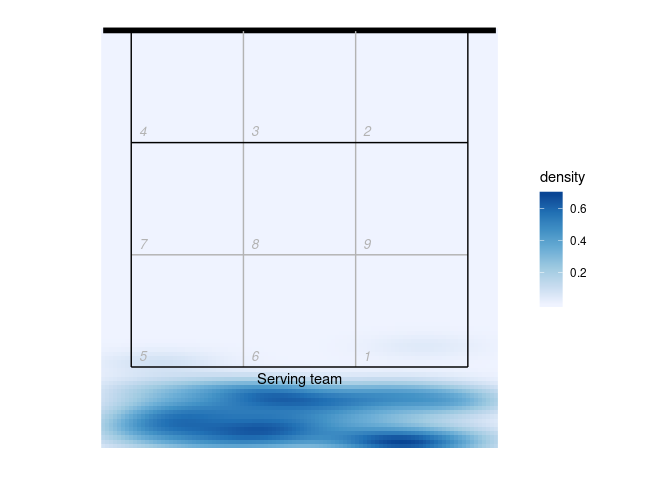
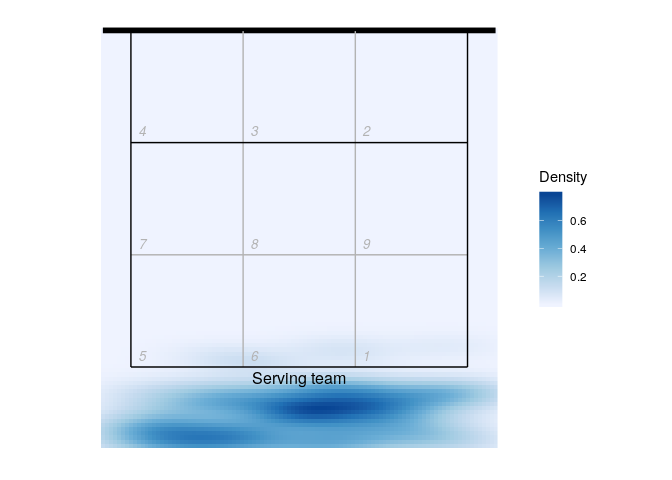
update readme

diff --git a/README.md b/README.md
@@ -30,7 +30,7 @@ Read one of the example data files bundled with the package:
 
 ``` r
 library(datavolley)
-x <- read_dv(dv_example_file(), insert_technical_timeouts=FALSE)
+x <- read_dv(dv_example_file(), insert_technical_timeouts = FALSE)
 summary(x)
 #> Match summary:
 #> Date: 2015-01-25
@@ -44,8 +44,8 @@ summary(x)
 
 Note that if you are working with files that were scouted by
 VolleyMetrics, they use some conventions in their files that differ from
-standard DataVolley usage. There is an option to tell
-`read_dv` to follow their conventions:
+standard DataVolley usage. There is an option to tell `read_dv` to
+follow their conventions:
 
 ``` r
 x <- read_dv("/your/file.dvw", skill_evaluation_decode = "volleymetrics")
@@ -64,8 +64,8 @@ table(plays(x)$team[serve_idx])
 Distribution of serve run lengths:
 
 ``` r
-serve_run_info <- find_runs(plays(x)[serve_idx,])
-table(unique(serve_run_info[,c("run_id","run_length")])$run_length)
+serve_run_info <- find_runs(plays(x)[serve_idx, ])
+table(unique(serve_run_info[, c("run_id", "run_length")])$run_length)
 #> 
 #>  1  2  3  4  5  7  8 
 #> 34 16  7  4  1  1  1
@@ -81,18 +81,18 @@ library(ggplot2)
 library(dplyr)
 ## calculate attack frequency by zone, per team
 attack_rate <- plays(x) %>% dplyr::filter(skill == "Attack") %>%
-    group_by(team, start_zone) %>% dplyr::summarize(n_attacks=n()) %>%
-    mutate(rate=n_attacks/sum(n_attacks)) %>% ungroup
+    group_by(team, start_zone) %>% dplyr::summarize(n_attacks = n()) %>%
+    mutate(rate = n_attacks/sum(n_attacks)) %>% ungroup
 
-## add x,y coordinates associated with the zones
-attack_rate <- cbind(attack_rate, dv_xy(attack_rate$start_zone, end="lower"))
+## add x, y coordinates associated with the zones
+attack_rate <- cbind(attack_rate, dv_xy(attack_rate$start_zone, end = "lower"))
 
 ## for team 2, these need to be on the top half of the diagram
-tm2i <- attack_rate$team==teams(x)[2]
+tm2i <- attack_rate$team == teams(x)[2]
 attack_rate[tm2i, c("x", "y")] <- dv_flip_xy(attack_rate[tm2i, c("x", "y")])
 
-ggplot(attack_rate, aes(x, y, fill=rate)) + geom_tile() + ggcourt(labels=teams(x)) +
-    scale_fill_gradient2(name="Attack rate")
+ggplot(attack_rate, aes(x, y, fill = rate)) + geom_tile() + ggcourt(labels = teams(x)) +
+    scale_fill_gradient2(name = "Attack rate")
 ```
 
 ![](man/figures/README-unnamed-chunk-6-1.png)<!-- -->
@@ -104,11 +104,11 @@ from position 4:
 ## calculate attack frequency by zone, per team
 attack_rate <- plays(x) %>% 
     dplyr::filter(team == "Nova KBM Branik" & skill == "Attack" & start_zone == 4) %>%
-    group_by(end_zone) %>% dplyr::summarize(n_attacks=n()) %>%
-    mutate(rate=n_attacks/sum(n_attacks)) %>% ungroup
-attack_rate <- cbind(attack_rate, dv_xy(attack_rate$end_zone, end="lower"))
-ggplot(attack_rate, aes(x, y, fill=rate)) + geom_tile() + ggcourt("lower", labels = NULL) +
-    scale_fill_gradient2(name="Rate: attack\nend location")
+    group_by(end_zone) %>% dplyr::summarize(n_attacks = n()) %>%
+    mutate(rate = n_attacks/sum(n_attacks)) %>% ungroup
+attack_rate <- cbind(attack_rate, dv_xy(attack_rate$end_zone, end = "lower"))
+ggplot(attack_rate, aes(x, y, fill = rate)) + geom_tile() + ggcourt("lower", labels = NULL) +
+    scale_fill_gradient2(name = "Rate: attack\nend location")
 #> Warning: Removed 1 rows containing missing values (geom_tile).
 ```
 
@@ -122,11 +122,11 @@ above, but using subzones:
 ``` r
 attack_rate <- plays(x) %>% 
     dplyr::filter(team != "Nova KBM Branik" & skill == "Attack" & start_zone == 4 & !is.na(end_subzone)) %>%
-    group_by(end_zone, end_subzone) %>% dplyr::summarize(n_attacks=n()) %>%
-    mutate(rate=n_attacks/sum(n_attacks)) %>% ungroup
-attack_rate <- cbind(attack_rate, dv_xy(attack_rate$end_zone, end="lower", subzones = attack_rate$end_subzone))
-ggplot(attack_rate, aes(x, y, fill=rate)) + geom_tile() + ggcourt("lower", labels = NULL) +
-    scale_fill_gradient2(name="Rate: attack\nend location")
+    group_by(end_zone, end_subzone) %>% dplyr::summarize(n_attacks = n()) %>%
+    mutate(rate = n_attacks/sum(n_attacks)) %>% ungroup
+attack_rate <- cbind(attack_rate, dv_xy(attack_rate$end_zone, end = "lower", subzones = attack_rate$end_subzone))
+ggplot(attack_rate, aes(x, y, fill = rate)) + geom_tile() + ggcourt("lower", labels = NULL) +
+    scale_fill_gradient2(name = "Rate: attack\nend location")
 ```
 
 ![](man/figures/README-unnamed-chunk-8-1.png)<!-- -->
@@ -135,7 +135,7 @@ Or using arrows to show the starting and ending zones of attacks:
 
 ``` r
 ## first tabulate attacks by starting and ending zone
-attack_rate <- plays(x) %>% dplyr::filter(team==teams(x)[1] & skill=="Attack") %>%
+attack_rate <- plays(x) %>% dplyr::filter(team == teams(x)[1] & skill == "Attack") %>%
   group_by(start_zone, end_zone) %>% tally() %>% ungroup
 
 ## convert counts to rates
@@ -144,25 +144,28 @@ attack_rate$rate <- attack_rate$n/sum(attack_rate$n)
 ## discard zones with zero attacks or missing location information
 attack_rate <- attack_rate %>% dplyr::filter(rate>0 & !is.na(start_zone) & !is.na(end_zone))
 
-## add starting x,y coordinates
-attack_rate <- cbind(attack_rate, dv_xy(attack_rate$start_zone, end="lower", xynames=c("sx","sy")))
+## add starting x, y coordinates
+attack_rate <- cbind(attack_rate, dv_xy(attack_rate$start_zone, end = "lower", xynames = c("sx", "sy")))
 
-## and ending x,y coordinates
-attack_rate <- cbind(attack_rate, dv_xy(attack_rate$end_zone, end="upper", xynames=c("ex","ey")))
+## and ending x, y coordinates
+attack_rate <- cbind(attack_rate, dv_xy(attack_rate$end_zone, end = "upper", xynames = c("ex", "ey")))
 
 ## plot in reverse order so largest arrows are on the bottom
 attack_rate <- attack_rate %>% dplyr::arrange(desc(rate))
 
-p <- ggplot(attack_rate,aes(x,y,col=rate)) + ggcourt(labels=c(teams(x)[1],""))
+p <- ggplot(attack_rate, aes(x, y, col = rate)) + ggcourt(labels = c(teams(x)[1], ""), court_colour = "indoor")
 for (n in 1:nrow(attack_rate))
-    p <- p + geom_path(data=data.frame(x=c(attack_rate$sx[n], attack_rate$ex[n]),
-                                       y=c(attack_rate$sy[n],attack_rate$ey[n]),
-                                       rate=attack_rate$rate[n]),
-        aes(size=rate), lineend="round", arrow=arrow(ends="last", type="closed"))
-p + scale_fill_gradient(name="Attack rate") + guides(size="none")
+    p <- p + geom_path(data = data.frame(x = c(attack_rate$sx[n], attack_rate$ex[n]),
+                                         y = c(attack_rate$sy[n], attack_rate$ey[n]),
+                                         rate = attack_rate$rate[n]),
+                       aes(size = rate), lineend = "round",
+                       arrow = arrow(length = unit(2, "mm"), type = "closed", angle = 20, ends = "last"))
+p + scale_colour_gradient(name = "Attack rate") + guides(size = "none")
 ```
 
 ![](man/figures/README-unnamed-chunk-9-1.png)<!-- -->
+
+(Note the `court_colour = "indoor"` option on this plot.)
 
 The second source of position data is court coordinates. These are not
 included in all data files, because generally they must be manually
@@ -171,7 +174,7 @@ purposes of demonstration, here we generate fake coordinate data:
 
 ``` r
 ## take just the serves from the play-by-play data
-xserves <- subset(plays(x), skill=="Serve")
+xserves <- subset(plays(x), skill == "Serve")
 
 ## if the file had been scouted with coordinate included, we could plot them directly
 ## this file has no coordinates, so we'll fake some up for demo purposes
@@ -183,10 +186,11 @@ xserves[, c("start_coordinate", "start_coordinate_x", "start_coordinate_y",
 xserves$evaluation[!xserves$evaluation %in% c("Ace", "Error")] <- "Other"
 
 ggplot(xserves, aes(start_coordinate_x, start_coordinate_y,
-       xend=end_coordinate_x, yend=end_coordinate_y, colour=evaluation))+
-    geom_segment() + geom_point() +
-    scale_colour_manual(values=c(Ace="limegreen", Error="firebrick", Other="dodgerblue")) +
-    ggcourt(labels=c("Serving team", "Receiving team"))
+       xend = end_coordinate_x, yend = end_coordinate_y, colour = evaluation)) +
+    geom_segment(arrow = arrow(length = unit(2, "mm"), type = "closed", angle = 20)) +
+    scale_colour_manual(values = c(Ace = "limegreen", Error = "firebrick", Other = "dodgerblue"),
+                        name = "Evaluation") +
+    ggcourt(labels = c("Serving team", "Receiving team"))
 ```
 
 ![](man/figures/README-unnamed-chunk-10-1.png)<!-- -->
@@ -195,10 +199,10 @@ We could also use these coordinates to generate a heatmap-style plot of
 serve location:
 
 ``` r
-ggplot(xserves, aes(start_coordinate_x, start_coordinate_y))+
-    stat_density_2d(geom="raster", aes(fill=..density..), contour=FALSE)+
-    scale_fill_distiller(palette=1, direction=1)+
-    ggcourt("lower", labels="Serving team")
+ggplot(xserves, aes(start_coordinate_x, start_coordinate_y)) +
+    stat_density_2d(geom = "raster", aes(fill = ..density..), contour = FALSE) +
+    scale_fill_distiller(palette = 1, direction = 1, name = "Density") +
+    ggcourt("lower", labels = "Serving team")
 ```
 
 ![](man/figures/README-unnamed-chunk-11-1.png)<!-- -->
@@ -239,18 +243,22 @@ error rate by team:
 library(dplyr)
 px %>% dplyr::filter(skill == "Reception") %>% group_by(team) %>% 
   dplyr::summarize(N_receptions = n(), error_rate = mean(evaluation == "Error", na.rm = TRUE))
-#> # A tibble: 4 x 3
+#> # A tibble: 8 x 3
 #>   team            N_receptions error_rate
 #>   <chr>                  <int>      <dbl>
 #> 1 ACH Volley                32     0.0312
-#> 2 Braslovče                 44     0.227 
-#> 3 Maribor                   64     0.188 
-#> 4 Nova KBM Branik           66     0.121
+#> 2 Aich/Dob                  86     0.0233
+#> 3 Br.Maribor                61     0.0328
+#> 4 Braslovče                103     0.233 
+#> 5 Hypo Tirol                98     0.0816
+#> 6 Kamnik                    69     0.0290
+#> 7 Maribor                   64     0.188 
+#> 8 Nova KBM Branik          153     0.131
 ```
 
 ## Troubleshooting
 
-If you see unexpected behaviour, try `read_dv(...,do_warn=TRUE)` to
+If you see unexpected behaviour, try `read_dv(..., do_warn = TRUE)` to
 obtain more diagnostic information during the process of reading and
 parsing the DataVolley file. Also check the text encoding specified to
 `read_dv` (did you specify one??)
